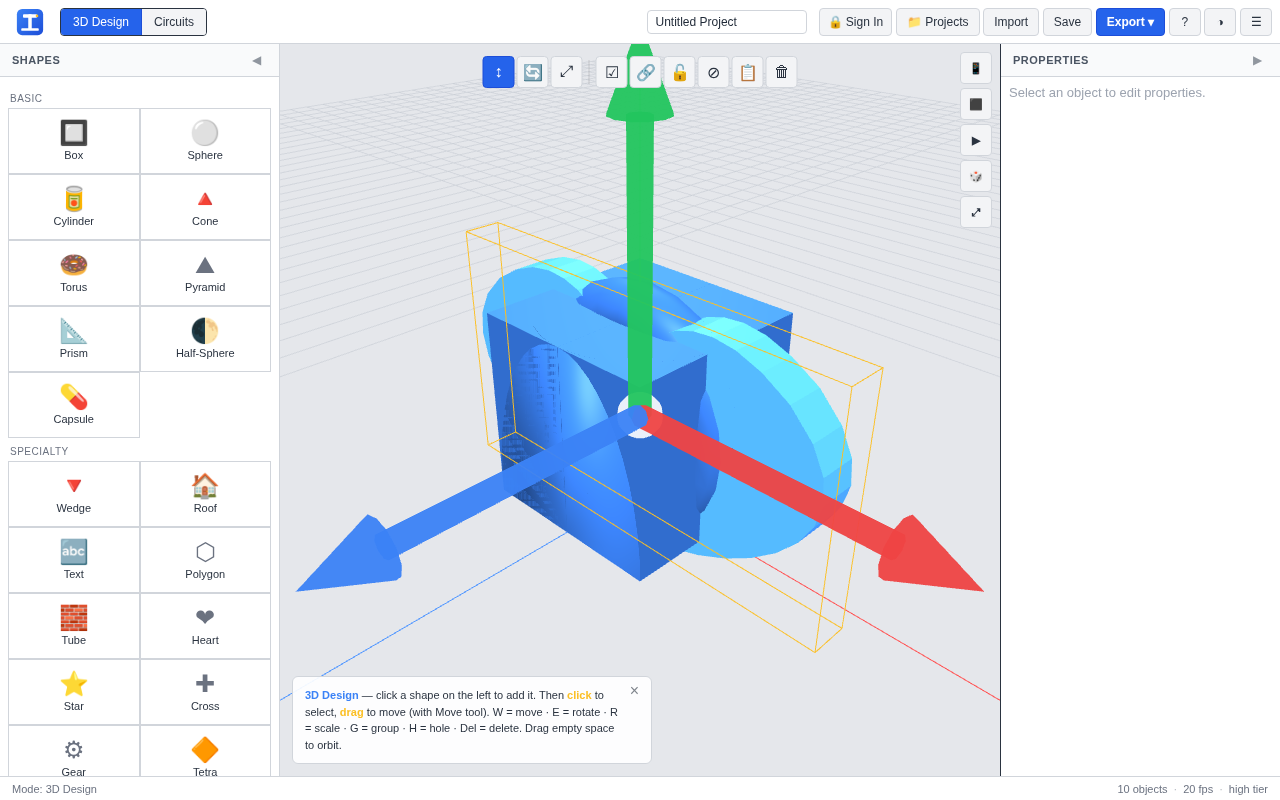
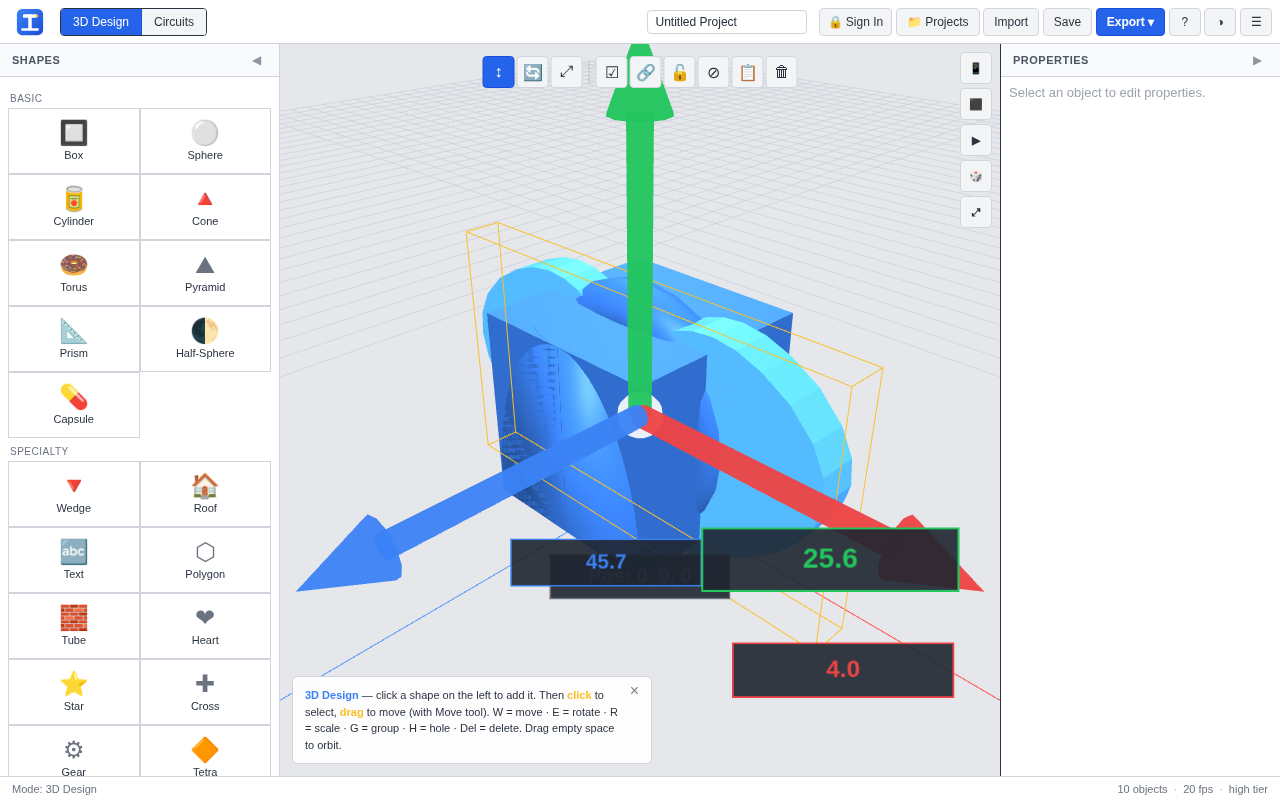
5600e379-766b-4dd1-9397-937a66bf480d

Changed region(s): [[0.375, 0.6562, 0.75, 0.75], [0.5625, 0.7812, 0.75, 0.875]]

diff --git a/public/js/mode-3d.js b/public/js/mode-3d.js
@@ -995,14 +995,15 @@
         this._bboxHelper.scale.copy(size);
         this._bboxHelper.position.copy(center);
         this._bboxHelper.visible = true;
+
+        // Show dimension labels (Tinkercad-style)
+        this._showDimensionLabels(this.selected[0], box, size);
+
         // Position gizmo at selection center (only for single selection + move tool)
         if (this.selected.length === 1 && this.tool === 'move') {
           this._gizmo.position.copy(center);
-          // Scale gizmo to ~60% of the selection's largest dimension
-          // (so arrows extend just past the object edge)
           var maxDim = Math.max(size.x, size.y, size.z);
           var gizmoScale = maxDim * 0.6;
-          // Don't let it get too tiny or huge
           gizmoScale = Math.max(5, Math.min(80, gizmoScale));
           this._gizmo.scale.set(gizmoScale, gizmoScale, gizmoScale);
           this._gizmo.visible = true;
@@ -1012,11 +1013,72 @@
       } else {
         this._bboxHelper.visible = false;
         this._gizmo.visible = false;
+        this._clearDimensionLabels();
       }
       global.ForgeCAD.ui.setObjects(this.objects.length);
     },
 
     /* ==================== PROPERTIES ==================== */
+
+    _dimLabels: [],
+
+    _showDimensionLabels: function (obj, box, size) {
+      this._clearDimensionLabels();
+      if (!obj || !box) return;
+
+      var self = this;
+      var makeLabel = function (text, position, color) {
+        var sprite = self._createTextSprite(text, color || '#fbbf24');
+        sprite.position.copy(position);
+        self.scene.add(sprite);
+        self._dimLabels.push(sprite);
+      };
+
+      // Get actual dimensions (account for scale)
+      var actualSize = new THREE.Vector3();
+      box.getSize(actualSize);
+      var w = actualSize.x, h = actualSize.y, d = actualSize.z;
+      var minP = box.min, maxP = box.max;
+      var cx = (minP.x + maxP.x) / 2;
+      var cy = (minP.y + maxP.y) / 2;
+      var cz = (minP.z + maxP.z) / 2;
+
+      // Width label (X axis) — placed at bottom-front edge
+      makeLabel(w.toFixed(1), new THREE.Vector3(cx, minP.y - 3, maxP.z + 3), '#3b82f6');
+      // Height label (Y axis) — placed at right-front edge
+      makeLabel(h.toFixed(1), new THREE.Vector3(maxP.x + 3, cy, maxP.z + 3), '#22c55e');
+      // Depth label (Z axis) — placed at bottom-right edge
+      makeLabel(d.toFixed(1), new THREE.Vector3(maxP.x + 3, minP.y - 3, cz), '#ef4444');
+
+      // If rotated, show rotation angle
+      var rot = obj.rotation;
+      var hasRotation = Math.abs(rot.x) > 0.01 || Math.abs(rot.y) > 0.01 || Math.abs(rot.z) > 0.01;
+      if (hasRotation) {
+        var rotText = 'Rot: ';
+        var parts = [];
+        if (Math.abs(rot.x) > 0.01) parts.push('X ' + (rot.x * 180 / Math.PI).toFixed(0) + '°');
+        if (Math.abs(rot.y) > 0.01) parts.push('Y ' + (rot.y * 180 / Math.PI).toFixed(0) + '°');
+        if (Math.abs(rot.z) > 0.01) parts.push('Z ' + (rot.z * 180 / Math.PI).toFixed(0) + '°');
+        rotText += parts.join('  ');
+        makeLabel(rotText, new THREE.Vector3(cx, maxP.y + 5, cz), '#fbbf24');
+      }
+
+      // Position label
+      var posText = 'Pos: ' + obj.position.x.toFixed(0) + ', ' + obj.position.y.toFixed(0) + ', ' + obj.position.z.toFixed(0);
+      makeLabel(posText, new THREE.Vector3(cx, minP.y - 8, cz), '#6b7280');
+    },
+
+    _clearDimensionLabels: function () {
+      for (var i = 0; i < this._dimLabels.length; i++) {
+        this.scene.remove(this._dimLabels[i]);
+        if (this._dimLabels[i].material) {
+          if (this._dimLabels[i].material.map) this._dimLabels[i].material.map.dispose();
+          this._dimLabels[i].material.dispose();
+        }
+      }
+      this._dimLabels = [];
+    },
+
     _showProperties: function () {
       if (this.selected.length === 0) {
         global.ForgeCAD.ui.clearProperties();
@@ -2098,16 +2160,17 @@
       }
     },
 
-    _createTextSprite: function (text) {
+    _createTextSprite: function (text, color) {
+      var c = color || '#fbbf24';
       var canvas = document.createElement('canvas');
       canvas.width = 256; canvas.height = 64;
       var ctx = canvas.getContext('2d');
       ctx.fillStyle = 'rgba(30, 37, 48, 0.9)';
       ctx.fillRect(0, 0, 256, 64);
-      ctx.strokeStyle = '#fbbf24';
+      ctx.strokeStyle = c;
       ctx.lineWidth = 2;
       ctx.strokeRect(1, 1, 254, 62);
-      ctx.fillStyle = '#fbbf24';
+      ctx.fillStyle = c;
       ctx.font = 'bold 28px sans-serif';
       ctx.textAlign = 'center';
       ctx.textBaseline = 'middle';
